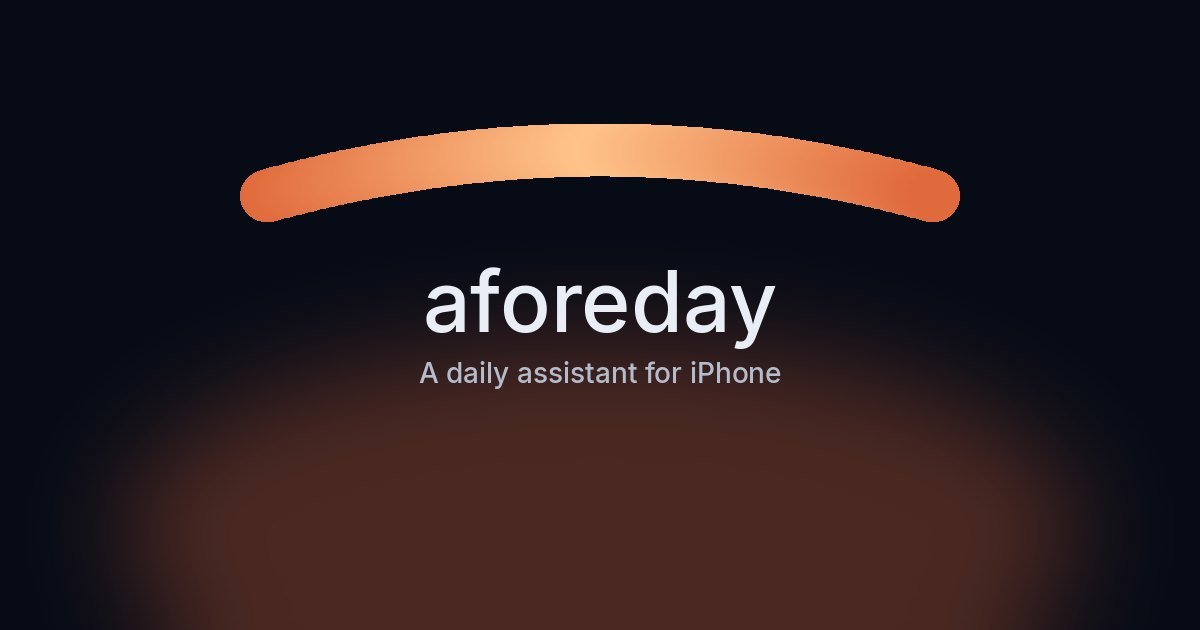
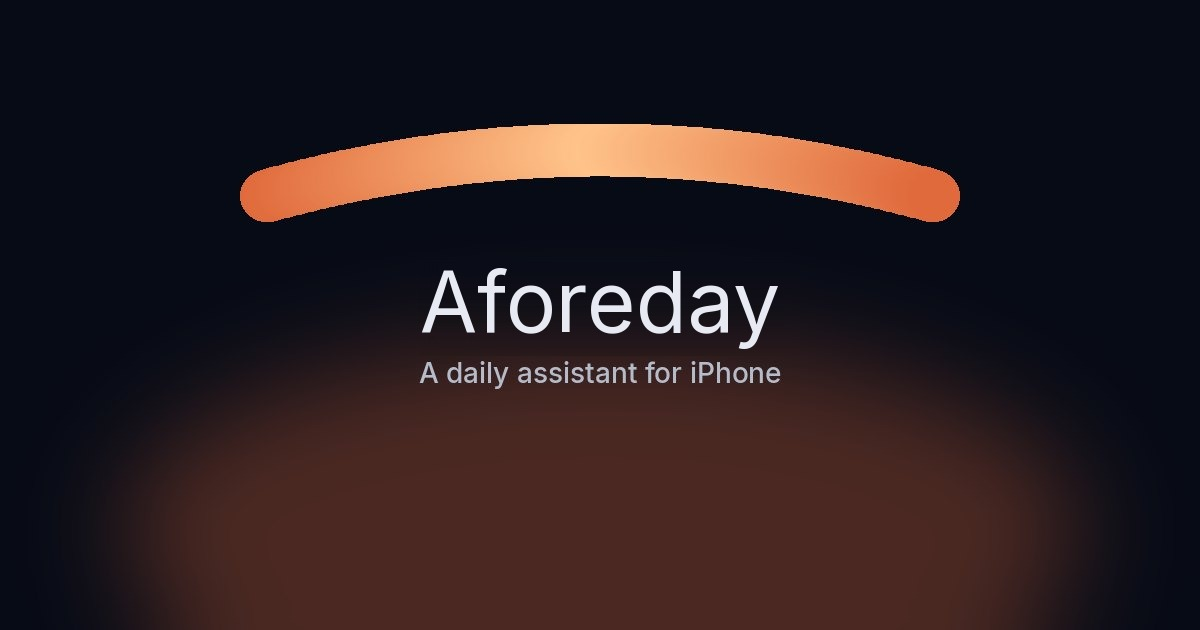
Wordmark: Aforeday with a capital A (header, footer, social image)

Changed region(s): [[0.3392, 0.4222, 0.6475, 0.5429]]

diff --git a/privacy.html b/privacy.html
@@ -32,7 +32,7 @@
     <div class="wrap">
       <a class="brand" href="./" aria-label="aforeday home">
         <svg class="brand-mark" viewBox="0 0 1000 200" aria-hidden="true"><path d="M 36 132 Q 500 4 964 132" fill="none" stroke="url(#horizon-arc)" stroke-width="72" stroke-linecap="round" stroke-linejoin="round"/></svg>
-        <span>aforeday</span>
+        <span>Aforeday</span>
       </a>
       <nav class="nav" aria-label="Main">
         <a href="./#features" data-quiet>Features</a>
@@ -245,7 +245,7 @@
       <div>
         <a class="brand" href="./" aria-label="aforeday home">
           <svg class="brand-mark" viewBox="0 0 1000 200" aria-hidden="true"><path d="M 36 132 Q 500 4 964 132" fill="none" stroke="url(#horizon-arc)" stroke-width="72" stroke-linecap="round" stroke-linejoin="round"/></svg>
-          <span>aforeday</span>
+          <span>Aforeday</span>
         </a>
         <p>Neurotech AI Solutions GmbH, Berlin.</p>
         <p>This site sets no cookies, runs no analytics, and loads nothing from anyone else.</p>

diff --git a/terms.html b/terms.html
@@ -31,7 +31,7 @@
     <div class="wrap">
       <a class="brand" href="./" aria-label="aforeday home">
         <svg class="brand-mark" viewBox="0 0 1000 200" aria-hidden="true"><path d="M 36 132 Q 500 4 964 132" fill="none" stroke="url(#horizon-arc)" stroke-width="72" stroke-linecap="round" stroke-linejoin="round"/></svg>
-        <span>aforeday</span>
+        <span>Aforeday</span>
       </a>
       <nav class="nav" aria-label="Main">
         <a href="./#features" data-quiet>Features</a>
@@ -138,7 +138,7 @@
       <div>
         <a class="brand" href="./" aria-label="aforeday home">
           <svg class="brand-mark" viewBox="0 0 1000 200" aria-hidden="true"><path d="M 36 132 Q 500 4 964 132" fill="none" stroke="url(#horizon-arc)" stroke-width="72" stroke-linecap="round" stroke-linejoin="round"/></svg>
-          <span>aforeday</span>
+          <span>Aforeday</span>
         </a>
         <p>Neurotech AI Solutions GmbH, Berlin.</p>
         <p>This site sets no cookies, runs no analytics, and loads nothing from anyone else.</p>

diff --git a/imprint.html b/imprint.html
@@ -32,7 +32,7 @@
     <div class="wrap">
       <a class="brand" href="./" aria-label="aforeday home">
         <svg class="brand-mark" viewBox="0 0 1000 200" aria-hidden="true"><path d="M 36 132 Q 500 4 964 132" fill="none" stroke="url(#horizon-arc)" stroke-width="72" stroke-linecap="round" stroke-linejoin="round"/></svg>
-        <span>aforeday</span>
+        <span>Aforeday</span>
       </a>
       <nav class="nav" aria-label="Main">
         <a href="./#features" data-quiet>Features</a>
@@ -96,7 +96,7 @@
       <div>
         <a class="brand" href="./" aria-label="aforeday home">
           <svg class="brand-mark" viewBox="0 0 1000 200" aria-hidden="true"><path d="M 36 132 Q 500 4 964 132" fill="none" stroke="url(#horizon-arc)" stroke-width="72" stroke-linecap="round" stroke-linejoin="round"/></svg>
-          <span>aforeday</span>
+          <span>Aforeday</span>
         </a>
         <p>Neurotech AI Solutions GmbH, Berlin.</p>
         <p>This site sets no cookies, runs no analytics, and loads nothing from anyone else.</p>

diff --git a/support.html b/support.html
@@ -31,7 +31,7 @@
     <div class="wrap">
       <a class="brand" href="./" aria-label="aforeday home">
         <svg class="brand-mark" viewBox="0 0 1000 200" aria-hidden="true"><path d="M 36 132 Q 500 4 964 132" fill="none" stroke="url(#horizon-arc)" stroke-width="72" stroke-linecap="round" stroke-linejoin="round"/></svg>
-        <span>aforeday</span>
+        <span>Aforeday</span>
       </a>
       <nav class="nav" aria-label="Main">
         <a href="./#features" data-quiet>Features</a>
@@ -124,7 +124,7 @@
       <div>
         <a class="brand" href="./" aria-label="aforeday home">
           <svg class="brand-mark" viewBox="0 0 1000 200" aria-hidden="true"><path d="M 36 132 Q 500 4 964 132" fill="none" stroke="url(#horizon-arc)" stroke-width="72" stroke-linecap="round" stroke-linejoin="round"/></svg>
-          <span>aforeday</span>
+          <span>Aforeday</span>
         </a>
         <p>A daily assistant for iPhone.</p>
         <p>This site sets no cookies, runs no analytics, and loads nothing from anyone else.</p>

diff --git a/index.html b/index.html
@@ -39,7 +39,7 @@
     <div class="wrap">
       <a class="brand" href="./" aria-label="aforeday home">
         <svg class="brand-mark" viewBox="0 0 1000 200" aria-hidden="true"><path d="M 36 132 Q 500 4 964 132" fill="none" stroke="url(#horizon-arc)" stroke-width="72" stroke-linecap="round" stroke-linejoin="round"/></svg>
-        <span>aforeday</span>
+        <span>Aforeday</span>
       </a>
       <nav class="nav" aria-label="Main">
         <a href="#features" data-quiet>Features</a>
@@ -258,7 +258,7 @@
       <div>
         <a class="brand" href="./" aria-label="aforeday home">
           <svg class="brand-mark" viewBox="0 0 1000 200" aria-hidden="true"><path d="M 36 132 Q 500 4 964 132" fill="none" stroke="url(#horizon-arc)" stroke-width="72" stroke-linecap="round" stroke-linejoin="round"/></svg>
-          <span>aforeday</span>
+          <span>Aforeday</span>
         </a>
         <p>A daily assistant for iPhone.</p>
         <p>This site sets no cookies, runs no analytics, and loads nothing from anyone else.</p>

diff --git a/404.html b/404.html
@@ -27,7 +27,7 @@
     <div class="wrap">
       <a class="brand" href="/" aria-label="aforeday home">
         <svg class="brand-mark" viewBox="0 0 1000 200" aria-hidden="true"><path d="M 36 132 Q 500 4 964 132" fill="none" stroke="url(#horizon-arc)" stroke-width="72" stroke-linecap="round" stroke-linejoin="round"/></svg>
-        <span>aforeday</span>
+        <span>Aforeday</span>
       </a>
       <nav class="nav" aria-label="Main">
         <a href="/#features" data-quiet>Features</a>
@@ -54,7 +54,7 @@
       <div>
         <a class="brand" href="/" aria-label="aforeday home">
           <svg class="brand-mark" viewBox="0 0 1000 200" aria-hidden="true"><path d="M 36 132 Q 500 4 964 132" fill="none" stroke="url(#horizon-arc)" stroke-width="72" stroke-linecap="round" stroke-linejoin="round"/></svg>
-          <span>aforeday</span>
+          <span>Aforeday</span>
         </a>
         <p>A daily assistant for iPhone.</p>
         <p>This site sets no cookies, runs no analytics, and loads nothing from anyone else.</p>
